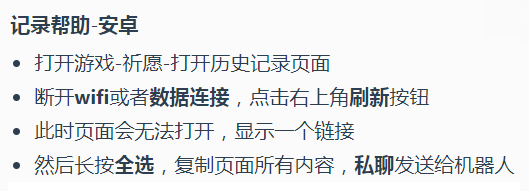
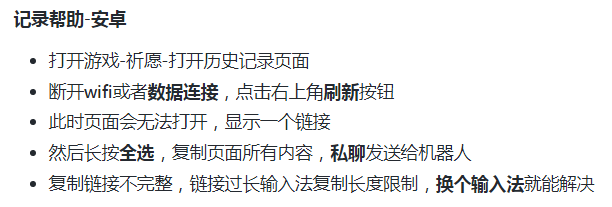
抽卡记录帮助更新

Changed region(s): [[0.0, 0.2356, 0.8166, 0.7853], [0.0, 0.8115, 0.9679, 0.9424], [0.0, 0.0524, 0.2722, 0.1832]]

diff --git a/resources/logHelp/记录帮助.md b/resources/logHelp/记录帮助.md
@@ -1,25 +1,28 @@
 ## 祈愿记录统计-帮助
 - 查询统计祈愿数据，五星平均抽数，角色抽数等等
-- 该功能需要配置，即将链接**私聊**发送给机器人
-- 详细配置请发送 **安卓帮助**、**电脑帮助**查看
-- 2.3版本后，反馈的链接，已无法获取到抽卡记录
+- 该功能需要将抽卡**历史记录**页面链接**私聊**发送给机器人
+- 如何获取请发送命令 **安卓帮助**、**电脑帮助**查看
+- 查看记录命令，**#角色记录**，**#武器记录**，**#常驻记录**
 
 #### 其他说明
 - 链接发送失败的，请**删除域名**后再发送，或者添加机器人为好友
 - 数据存在**一小时**左右延迟，最多只能获取**前六个月**的
-- 需要**更新**数据的，请**重新私聊**发送链接给机器人
+- 需要**更新**数据的，请重新获取链接**私聊**发给机器人
 - **有效抽卡**，就是平均需要多少抽才能抽到**UP角色**
+- 复制链接不完整，链接过长输入法复制长度限制，**换个输入法**就能解决
 
 #### 记录帮助-安卓
 - 打开游戏-祈愿-打开历史记录页面
 - 断开**wifi**或者**数据连接**，点击右上角**刷新**按钮
 - 此时页面会无法打开，显示一个链接
 - 然后长按**全选**，复制页面所有内容，**私聊**发送给机器人
+- 复制链接不完整，链接过长输入法复制长度限制，**换个输入法**就能解决
 
 #### 记录帮助-电脑
 - 打开游戏祈愿-**历史记录页面**，生成日志文件(自动生成)
 - 快捷键 `win+R` 打开**运行**，然后输入下面命令，打开日志文件夹
 `%userprofile%\AppData\LocalLow\miHoYo\原神`
-- 最后添加机器人好友，将日志文件私聊发送给机器人
+- 最后添加机器人好友，将日志文件`output_log.txt`私聊发送给机器人
 - 提示日志被**其他程序占用**，无法发送的，可以将日志复制粘贴一份副本，将副本发送
 - 或者打开日志文件，找到链接**私聊**发送给机器人
+- 日志文件是`output_log.txt`，不是**last**那个
